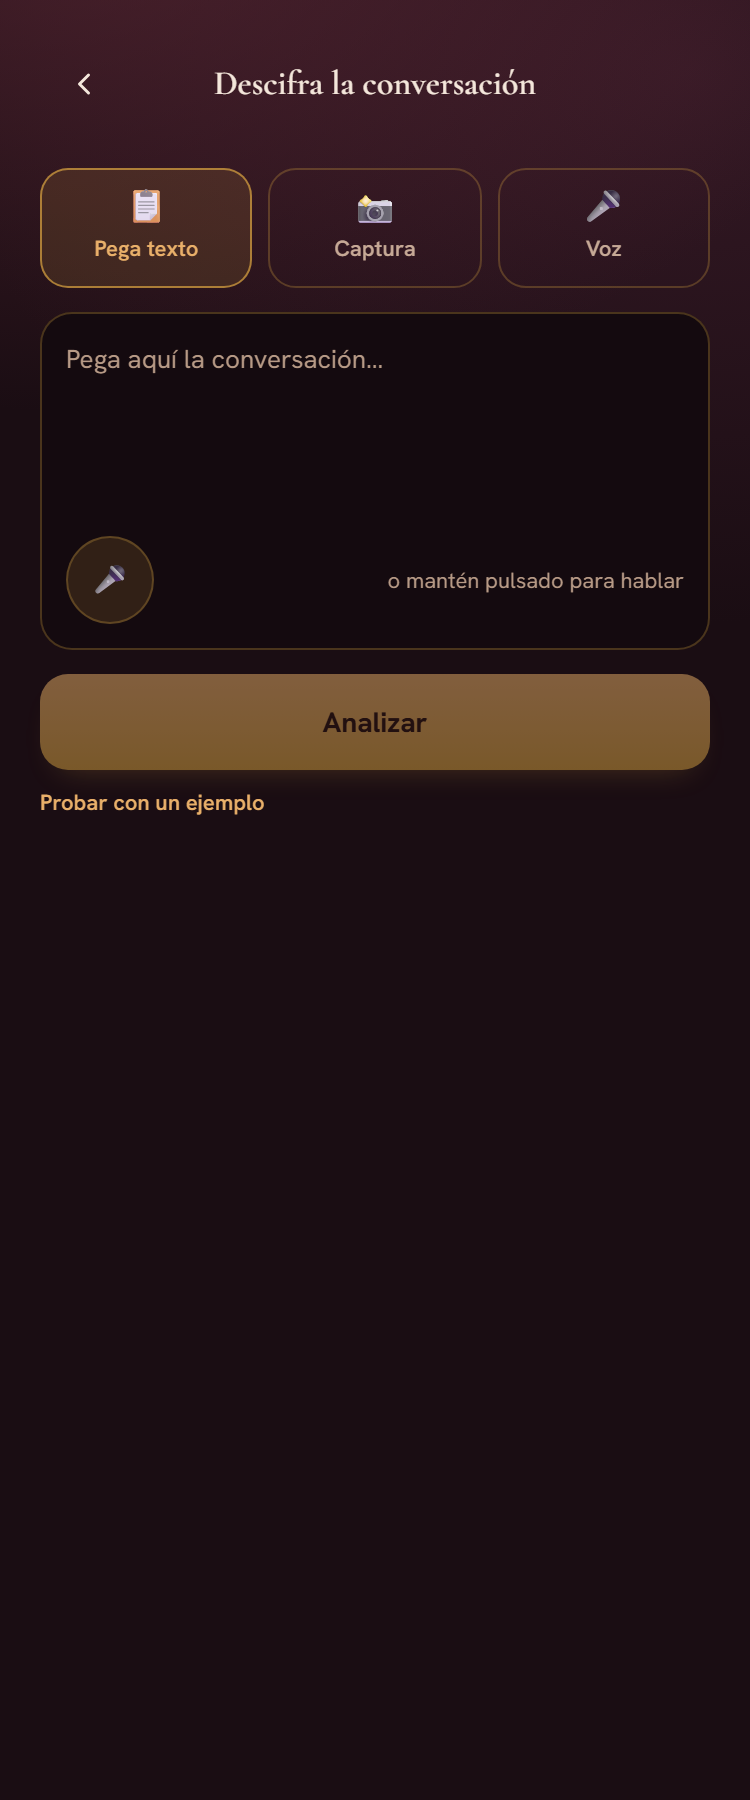
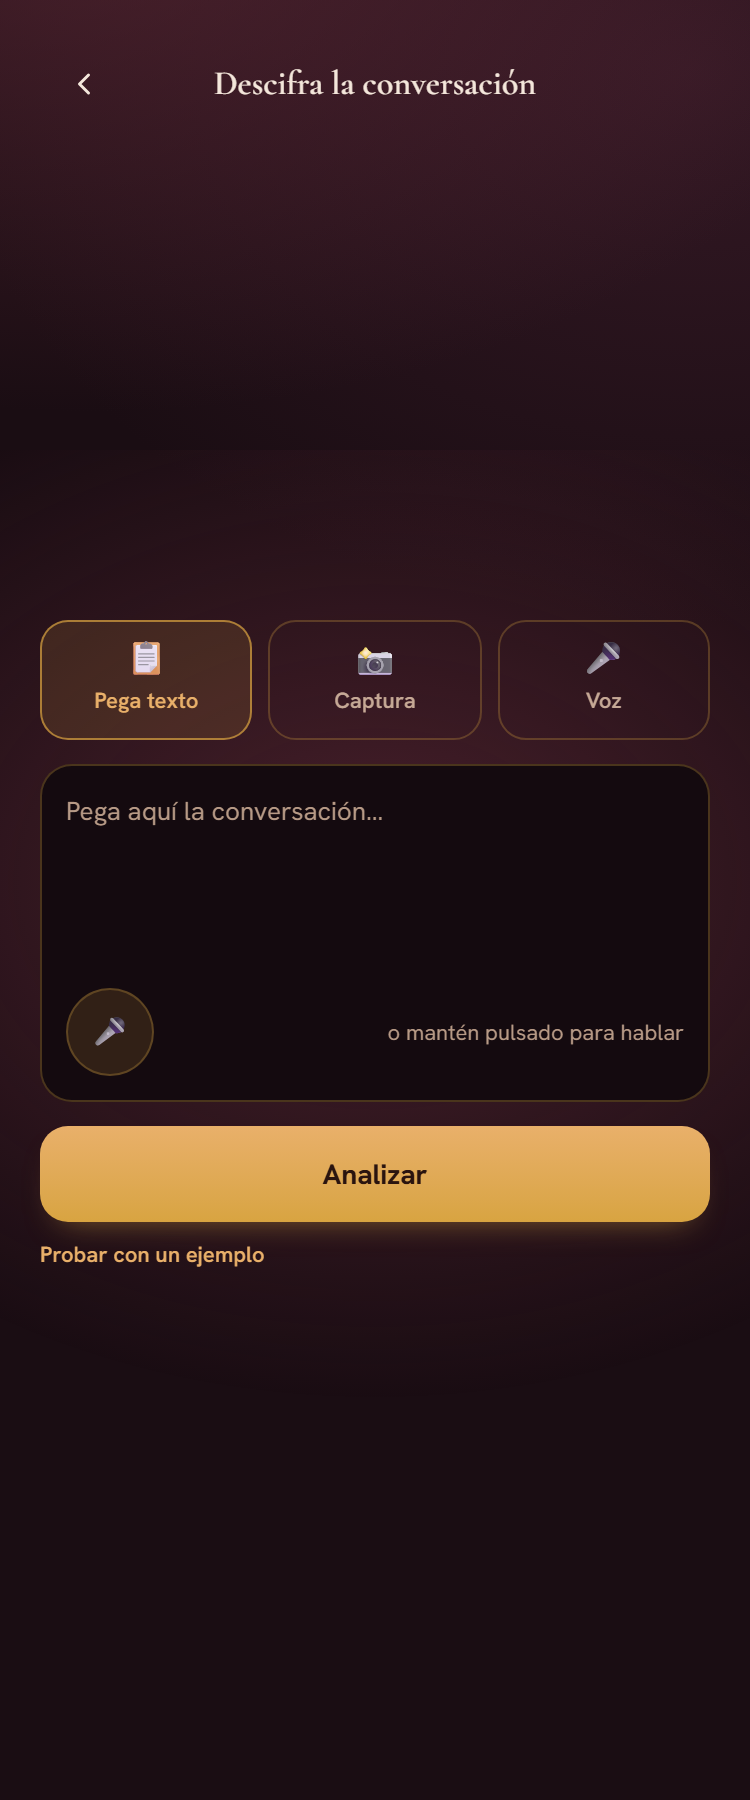
fix(sesion-5): descifra la conversacion — corrige defectos del revisor-visual
Centra verticalmente el contenido y agrega un bloom local para evitar
el vacio muerto y el fill plano bajo el composer; el CTA "Analizar" ya
nunca se deshabilita por texto vacio (ahora explica que necesita mas
contexto en vez de apagarse); agrega el estado de error que faltaba;
suma transicion al cambiar de modo y stagger a los 3 hallazgos del
resultado.

diff --git a/app/app/descifrar/page.tsx b/app/app/descifrar/page.tsx
@@ -6,6 +6,8 @@
 // breve loading y muestra el resultado de ejemplo — deja el LOOP completo probable
 // sin fingir que ya hay IA real. Captura/Voz muestran "Próximamente" honesto (11:
 // nunca un elemento tocable sin respuesta) hasta que OCR/voz→texto estén conectados.
+// El CTA "Analizar" NUNCA se deshabilita (ancla de craft): si el texto es muy corto
+// para decir algo real, se explica por qué en vez de apagar el botón.
 
 import { useState } from 'react';
 import Link from 'next/link';
@@ -15,7 +17,9 @@ import { AppButton, AppLinkButton } from '@/components/app/AppButton';
 import { CONVERSACION_EJEMPLO, ANALISIS_EJEMPLO } from '@/lib/seed-datos';
 
 type Modo = 'texto' | 'captura' | 'voz';
-type Estado = 'vacio' | 'listo' | 'cargando' | 'resultado';
+type Estado = 'reposo' | 'cargando' | 'error' | 'resultado';
+
+const MIN_CARACTERES = 15;
 
 const MODOS: { id: Modo; emoji: string; label: string }[] = [
   { id: 'texto', emoji: '📋', label: 'Pega texto' },
@@ -23,146 +27,199 @@ const MODOS: { id: Modo; emoji: string; label: string }[] = [
   { id: 'voz', emoji: '🎤', label: 'Voz' },
 ];
 
+const contenedor = {
+  hidden: {},
+  visible: { transition: { staggerChildren: 0.07 } },
+};
+const item = {
+  hidden: { opacity: 0, y: 8 },
+  visible: { opacity: 1, y: 0 },
+};
+
 export default function DescifrarPage() {
   const [modo, setModo] = useState<Modo>('texto');
   const [texto, setTexto] = useState('');
-  const [estado, setEstado] = useState<Estado>('vacio');
+  const [estado, setEstado] = useState<Estado>('reposo');
 
   function analizar() {
+    if (texto.trim().length < MIN_CARACTERES) {
+      setEstado('error');
+      return;
+    }
     setEstado('cargando');
     window.setTimeout(() => setEstado('resultado'), 900);
   }
 
-  const estadoActual = estado === 'vacio' && texto.trim() ? 'listo' : estado;
-
   return (
-    <div className="flex min-h-dvh flex-col px-5 pb-6 pt-3">
+    <div className="relative flex min-h-dvh flex-col px-5 pb-6 pt-3">
+      <div
+        aria-hidden="true"
+        className="pointer-events-none absolute inset-x-0 top-1/4 -z-10 h-[30rem]"
+        style={{
+          background:
+            'radial-gradient(520px 380px at 50% 45%, color-mix(in oklab, var(--bloom-vino) 55%, transparent), transparent 68%)',
+        }}
+      />
       <ScreenHeader titulo="Descifra la conversación" tituloDisplay />
 
-      <div className="mt-3 grid grid-cols-3 gap-2">
-        {MODOS.map((m) => (
-          <button
-            key={m.id}
-            type="button"
-            onClick={() => setModo(m.id)}
-            aria-pressed={modo === m.id}
-            className={`flex flex-col items-center gap-1 rounded-[var(--radius-button)] border py-2.5 text-[11px] font-semibold transition-colors duration-150 ${
-              modo === m.id
-                ? 'border-[color-mix(in_oklab,var(--accent)_70%,transparent)] bg-[color-mix(in_oklab,var(--accent)_14%,transparent)] text-[var(--accent-lite)]'
-                : 'border-[color-mix(in_oklab,var(--accent)_28%,transparent)] text-[var(--text-secondary)]'
-            }`}
-          >
-            <span className="text-[17px] leading-none" aria-hidden="true">
-              {m.emoji}
-            </span>
-            {m.label}
-          </button>
-        ))}
-      </div>
-
-      {modo === 'texto' && (
-        <>
-          <div className="mt-3 rounded-[var(--radius-card)] border border-[color-mix(in_oklab,var(--accent)_28%,transparent)] bg-[var(--surface-2)] p-3">
-            <textarea
-              value={texto}
-              onChange={(e) => {
-                setTexto(e.target.value);
-                if (estado === 'resultado') setEstado('vacio');
-              }}
-              placeholder="Pega aquí la conversación…"
-              rows={4}
-              className="w-full resize-none bg-transparent text-[13px] leading-relaxed text-[var(--text-primary)] placeholder:text-[var(--text-tertiary)] focus:outline-none"
-            />
-            <div className="mt-2 flex items-center justify-between">
-              <button
-                type="button"
-                aria-label="Grabar nota de voz"
-                onClick={() => setModo('voz')}
-                className="flex size-11 items-center justify-center rounded-full border border-[color-mix(in_oklab,var(--accent)_28%,transparent)] bg-[color-mix(in_oklab,var(--accent)_15%,transparent)] text-[15px]"
-              >
-                🎤
-              </button>
-              <span className="text-[11px] text-[var(--text-tertiary)]">o mantén pulsado para hablar</span>
-            </div>
-          </div>
-
-          <div className="mt-3">
-            <AppButton onClick={analizar} disabled={!texto.trim() || estado === 'cargando'}>
-              {estado === 'cargando' ? 'Analizando…' : 'Analizar'}
-            </AppButton>
-          </div>
-
-          {texto.trim() === '' && estado !== 'resultado' && (
+      <div className="flex flex-1 flex-col justify-center">
+        <div className="grid grid-cols-3 gap-2">
+          {MODOS.map((m) => (
             <button
+              key={m.id}
               type="button"
-              onClick={() => setTexto(CONVERSACION_EJEMPLO)}
-              className="mt-2 self-start text-[11px] font-semibold text-[var(--accent-lite)]"
+              onClick={() => setModo(m.id)}
+              aria-pressed={modo === m.id}
+              className={`flex flex-col items-center gap-1 rounded-[var(--radius-button)] border py-2.5 text-[11px] font-semibold transition-colors duration-150 ${
+                modo === m.id
+                  ? 'border-[color-mix(in_oklab,var(--accent)_70%,transparent)] bg-[color-mix(in_oklab,var(--accent)_14%,transparent)] text-[var(--accent-lite)]'
+                  : 'border-[color-mix(in_oklab,var(--accent)_28%,transparent)] text-[var(--text-secondary)]'
+              }`}
             >
-              Probar con un ejemplo
+              <span className="text-[17px] leading-none" aria-hidden="true">
+                {m.emoji}
+              </span>
+              {m.label}
             </button>
-          )}
-        </>
-      )}
-
-      {modo !== 'texto' && (
-        <div className="mt-3 flex flex-col items-center gap-2 rounded-[var(--radius-card)] border border-dashed border-[color-mix(in_oklab,var(--accent)_35%,transparent)] px-4 py-10 text-center">
-          <span className="text-[26px]" aria-hidden="true">
-            {modo === 'captura' ? '📸' : '🎤'}
-          </span>
-          <p className="text-[13px] font-semibold text-[var(--text-primary)]">Próximamente</p>
-          <p className="text-[11.5px] text-[var(--text-secondary)]">
-            {modo === 'captura'
-              ? 'Vas a poder subir una captura del chat y LUMA la va a leer por ti.'
-              : 'Vas a poder contarlo en voz alta y LUMA lo transcribe por ti.'}
-          </p>
-          <button type="button" onClick={() => setModo('texto')} className="mt-1 text-[11px] font-bold text-[var(--accent-lite)]">
-            Volver a pegar texto
-          </button>
+          ))}
         </div>
-      )}
 
-      <AnimatePresence>
-        {estadoActual === 'resultado' && (
-          <motion.div
-            initial={{ opacity: 0, y: 10 }}
-            animate={{ opacity: 1, y: 0 }}
-            transition={{ duration: 0.3, ease: [0.16, 1, 0.3, 1] }}
-            className="mt-6 flex flex-col gap-4"
-          >
-            <p className="text-[15px] font-semibold text-[var(--text-primary)] [font-family:var(--font-display)]">
-              Lo que hemos detectado
-            </p>
-            {ANALISIS_EJEMPLO.map((a) => (
-              <div key={a.id} className="flex items-start gap-3">
-                <span
-                  aria-hidden="true"
-                  className="flex size-8 shrink-0 items-center justify-center rounded-full text-[15px]"
-                  style={{
-                    background: `color-mix(in oklab, ${a.color} 24%, transparent)`,
-                    border: `1px solid color-mix(in oklab, ${a.color} 55%, transparent)`,
-                    boxShadow: `0 0 16px -4px color-mix(in oklab, ${a.color} 55%, transparent)`,
+        <AnimatePresence mode="wait">
+          {modo === 'texto' ? (
+            <motion.div
+              key="texto"
+              initial={{ opacity: 0 }}
+              animate={{ opacity: 1 }}
+              exit={{ opacity: 0 }}
+              transition={{ duration: 0.2 }}
+            >
+              <div className="mt-3 rounded-[var(--radius-card)] border border-[color-mix(in_oklab,var(--accent)_28%,transparent)] bg-[var(--surface-2)] p-3">
+                <textarea
+                  value={texto}
+                  onChange={(e) => {
+                    setTexto(e.target.value);
+                    if (estado !== 'cargando') setEstado('reposo');
                   }}
-                >
-                  {a.emoji}
-                </span>
-                <div>
-                  <h3 className="text-[11px] font-bold text-[var(--text-primary)]">{a.titulo}</h3>
-                  <p className="mt-0.5 text-[11.5px] leading-snug text-[var(--text-secondary)]">{a.texto}</p>
+                  placeholder="Pega aquí la conversación…"
+                  rows={4}
+                  className="w-full resize-none bg-transparent text-[13px] leading-relaxed text-[var(--text-primary)] placeholder:text-[var(--text-tertiary)] focus:outline-none"
+                />
+                <div className="mt-2 flex items-center justify-between">
+                  <button
+                    type="button"
+                    aria-label="Grabar nota de voz"
+                    onClick={() => setModo('voz')}
+                    className="flex size-11 items-center justify-center rounded-full border border-[color-mix(in_oklab,var(--accent)_28%,transparent)] bg-[color-mix(in_oklab,var(--accent)_15%,transparent)] text-[15px]"
+                  >
+                    🎤
+                  </button>
+                  <span className="text-[11px] text-[var(--text-tertiary)]">o mantén pulsado para hablar</span>
                 </div>
               </div>
-            ))}
-            <div className="mt-1 flex flex-col gap-2">
-              <AppLinkButton href="/app/tarot">Explorar con tarot</AppLinkButton>
-              <Link
-                href="/app/coach"
-                className="flex h-[46px] w-full items-center justify-center rounded-[var(--radius-button)] border border-[color-mix(in_oklab,var(--accent)_45%,transparent)] text-[13px] font-semibold text-[var(--accent-lite)]"
+
+              <AnimatePresence>
+                {estado === 'error' && (
+                  <motion.p
+                    initial={{ opacity: 0, height: 0 }}
+                    animate={{ opacity: 1, height: 'auto' }}
+                    exit={{ opacity: 0, height: 0 }}
+                    className="mt-2 overflow-hidden text-[11px] font-semibold leading-snug text-[var(--an-risk)]"
+                  >
+                    Necesito un poco más de contexto — pega al menos un par de mensajes.
+                  </motion.p>
+                )}
+              </AnimatePresence>
+
+              <div className="mt-3">
+                <AppButton onClick={analizar} disabled={estado === 'cargando'}>
+                  {estado === 'cargando' ? 'Analizando…' : 'Analizar'}
+                </AppButton>
+              </div>
+
+              {texto.trim() === '' && (
+                <button
+                  type="button"
+                  onClick={() => {
+                    setTexto(CONVERSACION_EJEMPLO);
+                    setEstado('reposo');
+                  }}
+                  className="mt-2 self-start text-[11px] font-semibold text-[var(--accent-lite)]"
+                >
+                  Probar con un ejemplo
+                </button>
+              )}
+            </motion.div>
+          ) : (
+            <motion.div
+              key="otro-modo"
+              initial={{ opacity: 0 }}
+              animate={{ opacity: 1 }}
+              exit={{ opacity: 0 }}
+              transition={{ duration: 0.2 }}
+              className="mt-3 flex flex-col items-center gap-2 rounded-[var(--radius-card)] border border-dashed border-[color-mix(in_oklab,var(--accent)_35%,transparent)] px-4 py-10 text-center"
+            >
+              <span className="text-[26px]" aria-hidden="true">
+                {modo === 'captura' ? '📸' : '🎤'}
+              </span>
+              <p className="text-[13px] font-semibold text-[var(--text-primary)]">Próximamente</p>
+              <p className="text-[11.5px] text-[var(--text-secondary)]">
+                {modo === 'captura'
+                  ? 'Vas a poder subir una captura del chat y LUMA la va a leer por ti.'
+                  : 'Vas a poder contarlo en voz alta y LUMA lo transcribe por ti.'}
+              </p>
+              <button type="button" onClick={() => setModo('texto')} className="mt-1 text-[11px] font-bold text-[var(--accent-lite)]">
+                Volver a pegar texto
+              </button>
+            </motion.div>
+          )}
+        </AnimatePresence>
+
+        <AnimatePresence>
+          {estado === 'resultado' && (
+            <motion.div
+              variants={contenedor}
+              initial="hidden"
+              animate="visible"
+              className="mt-6 flex flex-col gap-4"
+            >
+              <motion.p
+                variants={item}
+                className="text-[15px] font-semibold text-[var(--text-primary)] [font-family:var(--font-display)]"
               >
-                ¿Qué podría responderle?
-              </Link>
-            </div>
-          </motion.div>
-        )}
-      </AnimatePresence>
+                Lo que hemos detectado
+              </motion.p>
+              {ANALISIS_EJEMPLO.map((a) => (
+                <motion.div key={a.id} variants={item} className="flex items-start gap-3">
+                  <span
+                    aria-hidden="true"
+                    className="flex size-8 shrink-0 items-center justify-center rounded-full text-[15px]"
+                    style={{
+                      background: `color-mix(in oklab, ${a.color} 24%, transparent)`,
+                      border: `1px solid color-mix(in oklab, ${a.color} 55%, transparent)`,
+                      boxShadow: `0 0 16px -4px color-mix(in oklab, ${a.color} 55%, transparent)`,
+                    }}
+                  >
+                    {a.emoji}
+                  </span>
+                  <div>
+                    <h3 className="text-[11px] font-bold text-[var(--text-primary)]">{a.titulo}</h3>
+                    <p className="mt-0.5 text-[11.5px] leading-snug text-[var(--text-secondary)]">{a.texto}</p>
+                  </div>
+                </motion.div>
+              ))}
+              <motion.div variants={item} className="mt-1 flex flex-col gap-2">
+                <AppLinkButton href="/app/tarot">Explorar con tarot</AppLinkButton>
+                <Link
+                  href="/app/coach"
+                  className="flex h-[46px] w-full items-center justify-center rounded-[var(--radius-button)] border border-[color-mix(in_oklab,var(--accent)_45%,transparent)] text-[13px] font-semibold text-[var(--accent-lite)]"
+                >
+                  ¿Qué podría responderle?
+                </Link>
+              </motion.div>
+            </motion.div>
+          )}
+        </AnimatePresence>
+      </div>
     </div>
   );
 }

diff --git a/docs/revisiones/descifrar-veredicto.md b/docs/revisiones/descifrar-veredicto.md
@@ -1,0 +1,24 @@
+# VEREDICTO revisor-visual — Descifra la conversación
+Fecha: 2026-09-12 00:00
+Screenshot: docs/revisiones/descifrar-375.png (+ docs/revisiones/descifrar-resultado-375.png)
+Usabilidad: 31/40
+Craft: 13/20
+Copy (si vende): N-A
+Fidelidad (si hubo referencia): N-A
+Veredicto: NO LISTA
+Top defectos:
+1. Vacío muerto masivo bajo el contenido en ambos estados (tras "Probar con un ejemplo" en vacío;
+   tras los 2 CTAs en resultado) → rellenar con contenido útil o centrar el bloque verticalmente;
+   verificar que min-h-dvh/el fondo con blooms cubran el 100% real del viewport sin caer a un
+   corte sólido casi negro en el borde inferior.
+2. La zona vacía se percibe como fill marrón plano, sin blooms visibles (contradice FICHA-ARTE:
+   "el fondo NUNCA es un fill plano") → subir opacidad/tamaño de los blooms radiales para que se
+   perciban en toda la altura de pantalla, no solo cerca del header.
+3. CTA "Analizar" deshabilitado con opacity-50 cuando el textarea está vacío → viola la ancla
+   "CTA héroe nunca disabled por defecto"; mantenerlo tappable siempre y mostrar hint inline
+   ("Pega tu conversación primero") al tocarlo vacío.
+4. Cero estado de error en todo el flujo (heurística 9): no hay mensaje para texto muy corto/
+   ambiguo ni manejo de fallo de análisis → agregar estado 'error' con qué-pasó + qué-hacer.
+5. Sin stagger en el cambio Texto/Captura/Voz (instantáneo, sin AnimatePresence) ni en la lista
+   de 3 hallazgos (aparecen todos juntos, no escalonados) → envolver el panel de modo en fade y
+   dar stagger 60-80ms a cada hallazgo, tal como exige la doctrina de movimiento baseline.
